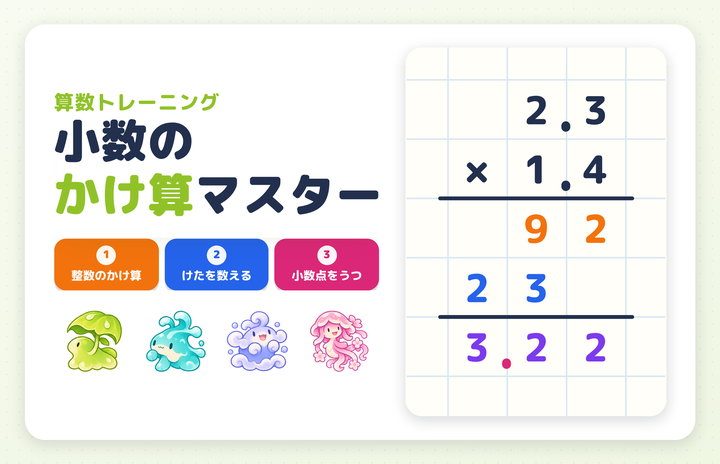
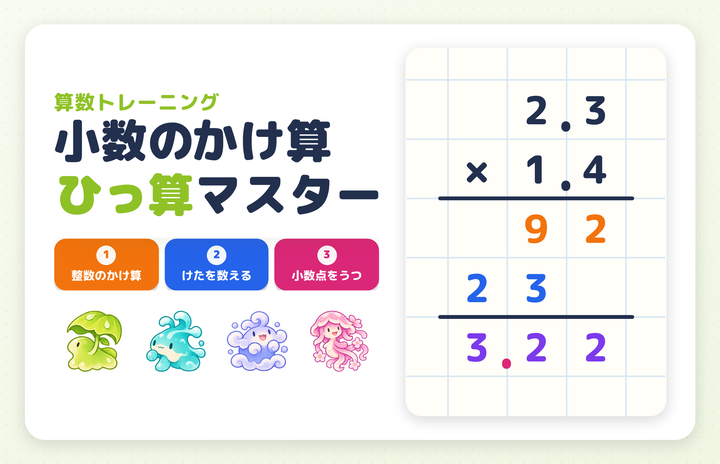
add

Changed region(s): [[0.275, 0.2414, 0.4583, 0.3621], [0.0611, 0.3621, 0.2139, 0.4828]]

diff --git a/shousuukakezan/index.html b/shousuukakezan/index.html
@@ -16,7 +16,7 @@
 <meta name="mobile-web-app-capable" content="yes">
 <meta name="apple-mobile-web-app-status-bar-style" content="default">
 <meta name="apple-mobile-web-app-title" content="小数のかけ算">
-<title>教育アプリ｜小数のかけ算マスター</title>
+<title>教育アプリ｜小数のかけ算ひっ算マスター</title>
 <meta name="description" content="整数と同じようにかけ算して、さいごに答えへ小数点をうつ。小数のかけ算のひっ算を1マスずつ書いて身につける練習ゲームです。小数点をなぜうごかすのかがわかる「計算のしかた」つき。ota toolsのアプリの1つです。">
 <meta name="author" content="太田圭一">
 <meta name="keywords" content="小数のかけ算,小数,かけ算,ひっ算,筆算,小数点,算数,教育アプリ,学習アプリ,知育アプリ,小学校,ota tools">
@@ -26,23 +26,23 @@
 <meta property="og:site_name" content="ota tools">
 <meta property="og:locale" content="ja_JP">
 <meta property="og:url" content="https://otatools.github.io/toolbox/shousuukakezan/">
-<meta property="og:title" content="算数｜小数のかけ算マスター - 小数のかけ算のひっ算を1マスずつ書いて身につける練習ゲーム">
+<meta property="og:title" content="算数｜小数のかけ算ひっ算マスター - 小数のかけ算のひっ算を1マスずつ書いて身につける練習ゲーム">
 <meta property="og:description" content="整数と同じようにかけ算して、さいごに答えへ小数点をうつ。小数のかけ算のひっ算を1マスずつ書いて身につける練習ゲームです。小数点をなぜうごかすのかがわかる「計算のしかた」つき。ota toolsのアプリの1つです。">
 <meta property="og:image" content="https://otatools.github.io/toolbox/shousuukakezan/ogp.png">
 <meta property="og:image:width" content="1200">
 <meta property="og:image:height" content="630">
-<meta property="og:image:alt" content="小数のかけ算マスターの紹介画像">
+<meta property="og:image:alt" content="小数のかけ算ひっ算マスターの紹介画像">
 <meta name="twitter:card" content="summary_large_image">
 <meta name="twitter:image" content="https://otatools.github.io/toolbox/shousuukakezan/ogp.png">
-<meta name="twitter:title" content="算数｜小数のかけ算マスター - 小数のかけ算のひっ算を1マスずつ書いて身につける練習ゲーム">
+<meta name="twitter:title" content="算数｜小数のかけ算ひっ算マスター - 小数のかけ算のひっ算を1マスずつ書いて身につける練習ゲーム">
 <meta name="twitter:description" content="整数と同じようにかけ算して、さいごに答えへ小数点をうつ。小数のかけ算のひっ算を1マスずつ書いて身につける練習ゲームです。小数点をなぜうごかすのかがわかる「計算のしかた」つき。ota toolsのアプリの1つです。">
 <script type="application/ld+json">
 {
   "@context": "https://schema.org",
   "@type": "SoftwareApplication",
-  "name": "小数のかけ算マスター",
+  "name": "小数のかけ算ひっ算マスター",
   "alternateName": [
-    "しょうすうのかけざんマスター",
+    "しょうすうのかけざんひっさんマスター",
     "小数のかけ算の筆算"
   ],
   "url": "https://otatools.github.io/toolbox/shousuukakezan/",
@@ -92,13 +92,13 @@
   if (!(document.fonts && document.fonts.load)) return;
   d.classList.add('fw');
   setTimeout(show, 1500);
-  var t = '小数のかけ算マスター整数点計算のしかたをかけるたすうつ.×0123456789';
+  var t = '小数のかけ算ひっ算マスター整数点計算のしかたをかけるたすうつ.×0123456789';
   Promise.all(['500', '700', '800', '900'].map(function (w) { return document.fonts.load(w + ' 16px "M PLUS Rounded 1c"', t); })).then(show, show);
 })();
 </script>
 <style>
 /* ============================================================
-   小数のかけ算マスター
+   小数のかけ算ひっ算マスター
    固定サイズのデザインを画面に合わせて丸ごと拡大縮小する方式
    横向き 1000×640 / 縦向き 460×860
    ============================================================ */
@@ -1141,7 +1141,7 @@ html.tv-off, html.tv-off body { background: #05070d !important; }
 </head>
 <body>
 <div id="tvLine" hidden></div>
-<h1 hidden>小数のかけ算マスター</h1>
+<h1 hidden>小数のかけ算ひっ算マスター</h1>
 <div id="stage">
   <div id="shade" hidden></div>
   <div id="blackout" hidden></div>
@@ -1156,7 +1156,7 @@ html.tv-off, html.tv-off body { background: #05070d !important; }
           </button>
           <div>
             <p class="logo-sub">算数トレーニング</p>
-            <h1 aria-hidden="true">小数の<br><span class="accent">かけ算</span>マスター</h1>
+            <h1 aria-hidden="true">小数のかけ算<br><span class="accent">ひっ算</span>マスター</h1>
           </div>
         </div>
         <div class="hero-panel board-panel" id="heroPanel"><div class="board" id="heroBoard"></div></div>
@@ -1186,7 +1186,7 @@ html.tv-off, html.tv-off body { background: #05070d !important; }
       <div class="levels">
         <div id="levelList" style="display:contents"></div>
       </div>
-      <p class="ver">小数のかけ算マスター｜ver.1.0｜ota tools</p>
+      <p class="ver">小数のかけ算ひっ算マスター｜ver.1.0｜ota tools</p>
     </section>
 
     <!-- ===================== ゲーム ===================== -->
@@ -2638,7 +2638,7 @@ const OTHER_APPS = [
   { key: 'otatools.shousuuwarizan.v1', name: '小数のわり算ひっ算マスター' }
 ];
 const OTHER_NEED = 120;
-const SELF_APP = { key: STORE_KEY, name: '小数のかけ算マスター' };   // この アプリ自身（ここで 120体 そろえても チケットが もらえる）
+const SELF_APP = { key: STORE_KEY, name: '小数のかけ算ひっ算マスター' };   // この アプリ自身（ここで 120体 そろえても チケットが もらえる）
 const SECRETS_M = ['075', '073', '068', '084', '078', '071', '060', '045', '035', '016', '032', '006', '001', '003', '043', '047', '049', '062', '063', '069'];                                    // おとこのこ
 const SECRETS_F = ['074', '065', '072', '056', '061', '070', '059', '050', '002', '004', '005', '007', '034', '079', '036', '029', '023', '044', '052', '042'];                                    // おんなのこ
 const SECRETS = SECRETS_M.concat(SECRETS_F);

diff --git a/index.html b/index.html
@@ -770,8 +770,8 @@
 { id: "38", title: "わり算のひっ算マスター", category: "game", description: "わり算のひっ算を、数字をタップするだけで練習できる算数アプリです！線を引いたり消しゴムで消したりする手間はなし。「たてる・かける・ひく・おろす」の手順が色でわかるので、次に何をするか迷いません。コースは2桁÷1桁から4桁÷2桁までの5つ。問題をとくたびにたまごが育ち、15段階に進化します。まちがえてもそのマスだけやり直せるので、ひっ算が苦手な子も1問から気軽に始められます。", url: "https://otatools.github.io/toolbox/warizanhissan/", imageUrl: "038.png", date: "2026-11-14", initialViews: 0 },
 { id: "39", title: "九九めくり", category: "game", description: "九九カードをめくりながら、みんなで声に出して覚える算数アプリです！教室の大画面に映して音読でき、よみかたつきなので覚えきれていない子もいっしょに唱えられます。「じどう」にすればリズムに合わせてカードがめくれます。練習・ゲームは、こたえが同じ2枚を探す「九九あわせ」、ばらばらの81マスに挑む「81マスけいさん」、金・銀のスターを集める「九九けんてい」など。まちがえた九九は「にがて」に残るので、苦手だけを集中して練習できます。", url: "https://otatools.github.io/toolbox/kuku/", imageUrl: "039.png", date: "2026-11-16", initialViews: 0 },
 { id: "40", title: "かけ算のひっ算マスター", category: "game", description: "かけ算のひっ算を、数字をタップするだけで練習できる算数アプリです！線を引いたり消しゴムで消したりする手間はなし。「一の位をかける・十の位をかける・たす」の手順が色でわかり、つまずきやすい2だん目は「書きはじめる場所」を自分でえらんで身につけます。コースは2桁×1桁から3桁×3桁までの5つ。問題をとくたびにたまごが育ち、15段階に進化します。まちがえてもそのマスだけやり直せるので、ひっ算が苦手な子も1問から気軽に始められます。", url: "https://otatools.github.io/toolbox/kakezanhissan/", imageUrl: "040.png", date: "2026-11-19", initialViews: 0 },
-{ id: "41", title: "小数のかけ算マスター", category: "game", description: "小数のかけ算のひっ算を、数字をタップするだけで練習できる算数アプリです！整数と同じようにかけ算し、けたを数えて、小数点をうつ場所を自分でえらびます。「計算のしかた」では、小数点を動かす理由をアニメーションで説明。コースは4つで、問題をとくたびにたまごが育ちます。", url: "https://otatools.github.io/toolbox/shousuukakezan/", imageUrl: "041.png", date: "2026-11-23", initialViews: 0 },
-{ id: "42", title: "小数のわり算マスター", category: "game", description: "小数のわり算のひっ算を、数字をタップするだけで練習できる算数アプリです！わる数とわられる数の小数点を動かし、商の小数点をうつ手順を、1つずつ自分でえらんで進めます。「計算のしかた」では、テープの図で「なぜ小数点を動かすのか」を説明。コースは4つで、問題をとくたびにたまごが育ちます。", url: "https://otatools.github.io/toolbox/shousuuwarizan/", imageUrl: "042.png", date: "2026-11-24", initialViews: 0 },
+{ id: "41", title: "小数のかけ算ひっ算マスター", category: "game", description: "小数のかけ算のひっ算を、数字をタップするだけで練習できる算数アプリです！整数と同じようにかけ算し、けたを数えて、小数点をうつ場所を自分でえらびます。「計算のしかた」では、小数点を動かす理由をアニメーションで説明。コースは4つで、問題をとくたびにたまごが育ちます。", url: "https://otatools.github.io/toolbox/shousuukakezan/", imageUrl: "041.png", date: "2026-11-23", initialViews: 0 },
+{ id: "42", title: "小数のわり算ひっ算マスター", category: "game", description: "小数のわり算のひっ算を、数字をタップするだけで練習できる算数アプリです！わる数とわられる数の小数点を動かし、商の小数点をうつ手順を、1つずつ自分でえらんで進めます。「計算のしかた」では、テープの図で「なぜ小数点を動かすのか」を説明。コースは4つで、問題をとくたびにたまごが育ちます。", url: "https://otatools.github.io/toolbox/shousuuwarizan/", imageUrl: "042.png", date: "2026-11-24", initialViews: 0 },
         ];
 
         const categories = [

diff --git a/shousuuwarizan/index.html b/shousuuwarizan/index.html
@@ -2791,7 +2791,7 @@ function makeRb(el, id) {
 const OTHER_APPS = [
   { key: 'otatools.hissan.v1', name: 'わり算のひっ算マスター' },
   { key: 'otatools.kakezanhissan.v1', name: 'かけ算のひっ算マスター' },
-  { key: 'otatools.shousuukakezan.v1', name: '小数のかけ算マスター' }
+  { key: 'otatools.shousuukakezan.v1', name: '小数のかけ算ひっ算マスター' }
 ];
 const OTHER_NEED = 120;
 const SELF_APP = { key: STORE_KEY, name: '小数のわり算ひっ算マスター' };   // この アプリ自身（ここで 120体 そろえても チケットが もらえる）

diff --git a/warizanhissan/index.html b/warizanhissan/index.html
@@ -2257,7 +2257,7 @@ function makeRb(el, id) {
    ============================================================ */
 const OTHER_APPS = [
   { key: 'otatools.kakezanhissan.v1', name: 'かけ算のひっ算マスター' },
-  { key: 'otatools.shousuukakezan.v1', name: '小数のかけ算マスター' },
+  { key: 'otatools.shousuukakezan.v1', name: '小数のかけ算ひっ算マスター' },
   { key: 'otatools.shousuuwarizan.v1', name: '小数のわり算ひっ算マスター' }
 ];
 const OTHER_NEED = 120;

diff --git a/kakezanhissan/index.html b/kakezanhissan/index.html
@@ -2234,7 +2234,7 @@ function makeRb(el, id) {
    ============================================================ */
 const OTHER_APPS = [
   { key: 'otatools.hissan.v1', name: 'わり算のひっ算マスター' },
-  { key: 'otatools.shousuukakezan.v1', name: '小数のかけ算マスター' },
+  { key: 'otatools.shousuukakezan.v1', name: '小数のかけ算ひっ算マスター' },
   { key: 'otatools.shousuuwarizan.v1', name: '小数のわり算ひっ算マスター' }
 ];
 const OTHER_NEED = 120;
